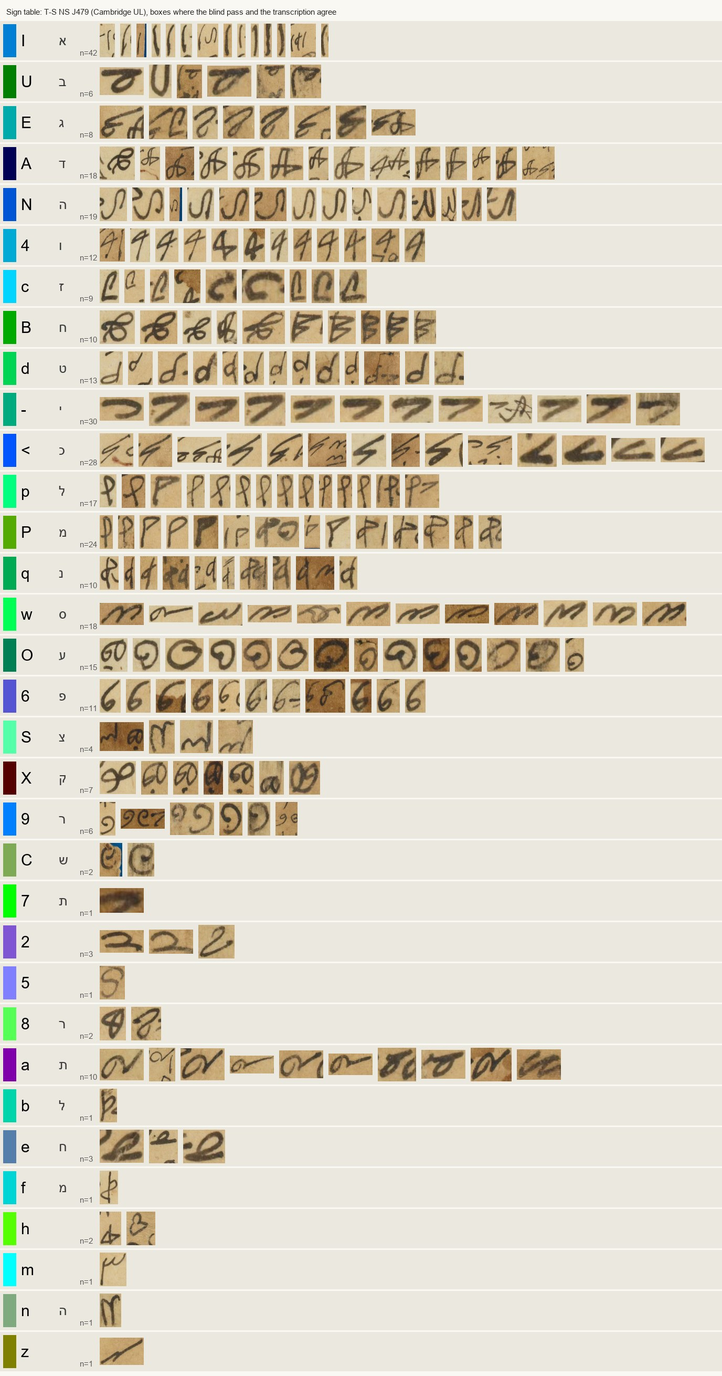
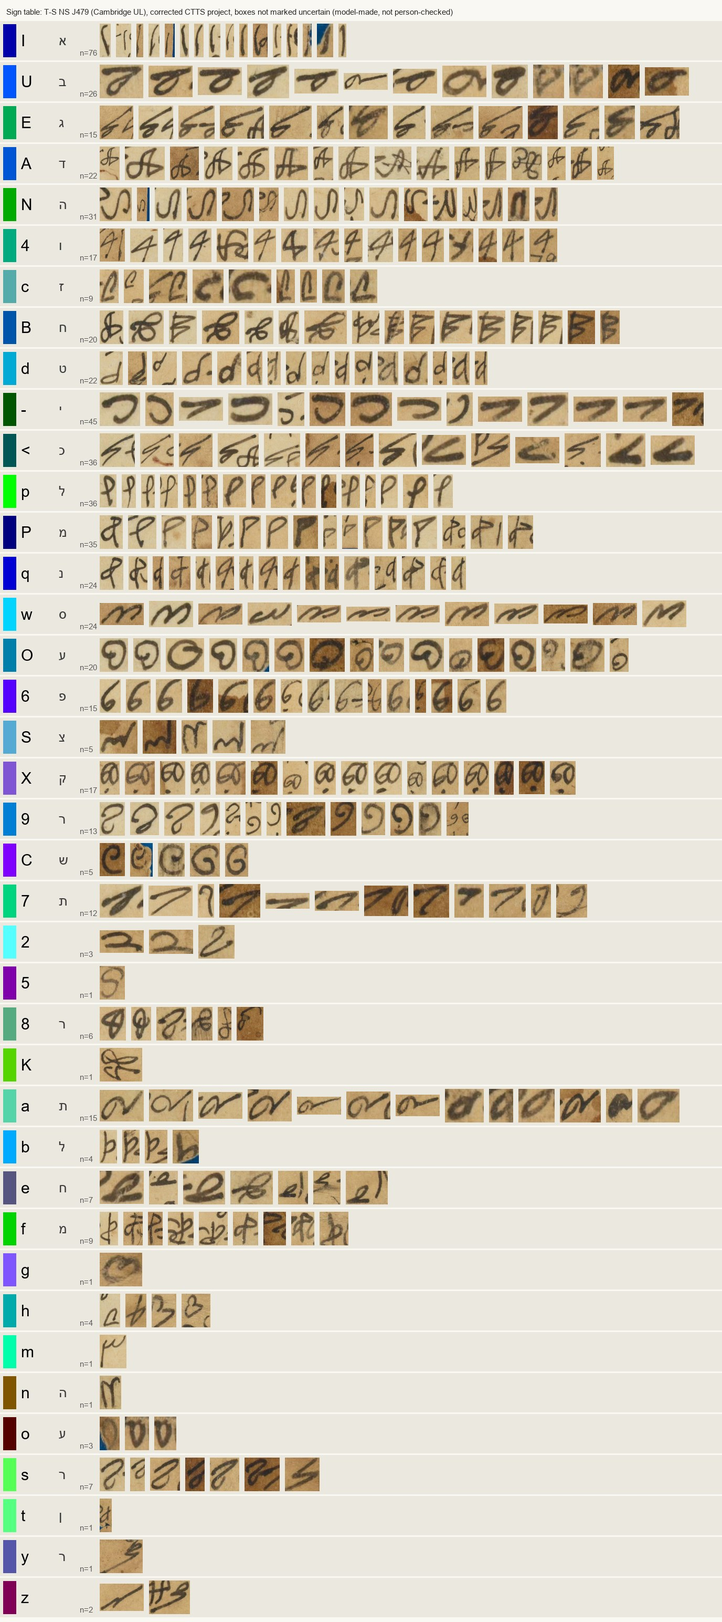
Site: J479 CTTS project corrected by editing the project files; sign table redrawn
Every disagreement and missing sign of the blind first pass was decided on enlarged crops by two reviewers and written
into the CTTS project files (697 boxes, 84 types, 103 marked uncertain; 167 type changes, 81 deletions, 3 merges,
15 splits, 129 additions). Computer use of CTTS was unavailable, so the files were edited directly, as in the it1583
pilot; the project has not been opened in CTTS and no person has checked it. The page's table now shows the 592
certain boxes. NOTES step 16, profile step and the research/ctts README row updated; review and apply scripts added.

diff --git a/docs/tsnsj479.html b/docs/tsnsj479.html
@@ -88,8 +88,8 @@
 <p>As photographed, the lines run left to right; the page is upside down in the photographs, and turned round they read right to left in the ordinary way (Elbaum's copy shows them so). The alphabet rows, read in Hebrew order, give the value of every sign. Sign frequencies agree: the commonest are the signs for א, י, ל and מ, as in Judaeo-Arabic, and the commonest short words come out as פי ("in"), יא ("O") and מן ("from").</p>
 <p>The scribe was not fully consistent. Across his alphabets one sign serves for ת, ש and ב, another for ת and צ, and צ has five forms; ר is written three ways in the alphabets and a fourth in the text. In the text of side 1 the 7-shaped sign stands for ב. A dot under ט marks ض or ظ, under ד marks ذ, and under כ marks خ: the Arabic sounds the Hebrew alphabet lacks. Two rows of side 1 were written with the page turned: S1L03, a fragment of the alphabet from ב to ל, and the text line S1L07. Three items at the top of side 2 are upside down as well.</p>
 
-<figure data-credit="Cambridge University Library, T-S NS J479, both sides, via Cambridge Digital Library IIIF; table drawn here in the style of the CTTS symbol-type view"><img src="tsnsj479_ctts_key.jpg" width="1376" height="2620" decoding="async" loading="lazy" alt="Sign table: one coloured row per sign type with the Hebrew letter it carries and cut-outs of that sign from the page, from I (alef) to the variants"><figcaption>The sign table: each type with signs cut from the page, only where a blind first-pass labelling and the transcription agree (336 of 637 boxes). A first pass by models, not yet checked by a person; a few cut-outs hold more than one sign. <span class="credit">Image: Cambridge University Library, T-S NS J479, both sides, via Cambridge Digital Library IIIF; table drawn here in the style of the CTTS symbol-type view.</span></figcaption></figure>
-<p>The same boxes were written out as a CTTS project (CrypTool Transcriber and Solver), with the uncertain ones marked, for a person to correct in the program; until that is done the table is a first pass, not a gold standard. About half the boxes still disagree with the transcription or have no counterpart (step 16 of the notes).</p>
+<figure data-credit="Cambridge University Library, T-S NS J479, both sides, via Cambridge Digital Library IIIF; table drawn here in the style of the CTTS symbol-type view"><img src="tsnsj479_ctts_key.jpg" width="1376" height="3088" decoding="async" loading="lazy" alt="Sign table: one coloured row per sign type with the Hebrew letter it carries and cut-outs of that sign from the page, from I (alef) to the variants"><figcaption>The sign table: each type with signs cut from the page, from the corrected CTTS project (592 of its 697 boxes; the 103 marked uncertain are left out). Made by models, not yet checked by a person; a few cut-outs hold more than one sign. <span class="credit">Image: Cambridge University Library, T-S NS J479, both sides, via Cambridge Digital Library IIIF; table drawn here in the style of the CTTS symbol-type view.</span></figcaption></figure>
+<p>The boxes were written out as a CTTS project (CrypTool Transcriber and Solver): a blind first pass by two models, compared with the transcription, then every disagreement and missing sign decided on enlarged crops (step 16 of the notes). The project files are corrected but have not been opened in CTTS, and no person has checked the table, so it is not yet a gold standard.</p>
 
 <h2 id="burda"><span class="num">03</span> The Burda verses</h2>
 <figure class="creveal" data-src="reveal/tsnsj479.json"></figure>
@@ -694,13 +694,13 @@ except רחמה, S2L13, S2U01, a few single words, and the words lost in holes.<
 <p class="muted">Transcriptions, readings, the key, the dating notes and the scripts are in <a href="https://github.com/dbourdeau/cyphersolver/tree/main/targets/tsnsj479">targets/tsnsj479</a>.</p>
 <!-- cite:start -->
 <details class="cite" id="cite"><summary>Cite this page</summary>
-<p class="citetext">Daniel Bourdeau, “Isḥāq the Jew’s cipher sheet, Cairo Geniza (T-S NS J479)”, Cyphersolver, posted 20 November 2026, repository commit e1eef0219e, https://cyphersolver.com/tsnsj479.html.</p>
-<p class="citebtns"><button type="button" data-copy="Daniel Bourdeau, “Isḥāq the Jew’s cipher sheet, Cairo Geniza (T-S NS J479)”, Cyphersolver, posted 20 November 2026, repository commit e1eef0219e, https://cyphersolver.com/tsnsj479.html.">Copy citation</button><button type="button" data-copy="@misc{cyphersolver-tsnsj479,
+<p class="citetext">Daniel Bourdeau, “Isḥāq the Jew’s cipher sheet, Cairo Geniza (T-S NS J479)”, Cyphersolver, posted 20 November 2026, repository commit 8e031a7dd3, https://cyphersolver.com/tsnsj479.html.</p>
+<p class="citebtns"><button type="button" data-copy="Daniel Bourdeau, “Isḥāq the Jew’s cipher sheet, Cairo Geniza (T-S NS J479)”, Cyphersolver, posted 20 November 2026, repository commit 8e031a7dd3, https://cyphersolver.com/tsnsj479.html.">Copy citation</button><button type="button" data-copy="@misc{cyphersolver-tsnsj479,
   author = {Daniel Bourdeau},
   title = {Isḥāq the Jew’s cipher sheet, Cairo Geniza (T-S NS J479)},
   year = {2026},
   howpublished = {Cyphersolver},
-  note = {posted 20 November 2026, repository commit e1eef0219e},
+  note = {posted 20 November 2026, repository commit 8e031a7dd3},
   url = {https://cyphersolver.com/tsnsj479.html}
 }">Copy BibTeX</button></p>
 </details>

diff --git a/research/ctts/apply_decisions_j479.py b/research/ctts/apply_decisions_j479.py
@@ -1,0 +1,71 @@
+"""Apply the reviewers' decisions (decisions_s1.json, decisions_s2.json) to the T-S NS J479 CTTS project and write the
+files CTTS restores a project from.
+
+Per band, in this order: delete, merge, split, set, add. Boxes with an entry in "uncertain" get their type marked with a
+leading `?` so that they sit together in CTTS's symbol-type view. Output: boxes_corrected.json, labels_corrected.json,
+corrections.tsv (every operation, one line each) and, through to_ctts.py, ctts/positions + colors.txt.
+
+  python apply_decisions_j479.py
+"""
+import json, subprocess, sys
+from pathlib import Path
+
+P = Path(__file__).parent / 'projects' / 'tsnsj479'
+boxes = json.load(open(P / 'boxes_final.json', encoding='utf-8'))
+labels = json.load(open(P / 'labels_final.json', encoding='utf-8'))
+dec = {}
+for f in ('decisions_s1.json', 'decisions_s2.json'):
+    dec.update(json.load(open(P / f, encoding='utf-8')))
+log = []
+out_b, out_l = {}, {}
+tot = dict(set=0, delete=0, merge=0, split=0, add=0, uncertain=0, bands_without_decisions=0)
+for img, bx in boxes.items():
+    d = dec.get(img)
+    rows = {b['n']: dict(x=b['x'], y=b['y'], w=b['w'], h=b['h'], label=labels[img][str(b['n'])], tag='') for b in bx}
+    if d is None:
+        tot['bands_without_decisions'] += 1; d = {}
+    for n in d.get('delete', []):
+        if rows.pop(int(n), None) is not None:
+            tot['delete'] += 1; log.append((img, 'delete', n, ''))
+    nxt = max(rows, default=0) + 1000
+    for m in d.get('merge', []):
+        ns = [int(n) for n in m['ns'] if int(n) in rows]
+        if len(ns) < 2:
+            continue
+        x0 = min(rows[n]['x'] for n in ns); y0 = min(rows[n]['y'] for n in ns)
+        x1 = max(rows[n]['x'] + rows[n]['w'] for n in ns); y1 = max(rows[n]['y'] + rows[n]['h'] for n in ns)
+        for n in ns: rows.pop(n)
+        nxt += 1; rows[nxt] = dict(x=x0, y=y0, w=x1 - x0, h=y1 - y0, label=m['label'], tag='')
+        tot['merge'] += 1; log.append((img, 'merge', ns, m['label']))
+    for s in d.get('split', []):
+        n = int(s['n'])
+        if n not in rows: continue
+        b = rows.pop(n); k = len(s['labels'])
+        for j, lab in enumerate(s['labels']):
+            nxt += 1; rows[nxt] = dict(x=b['x'] + b['w'] * j / k, y=b['y'], w=b['w'] / k, h=b['h'], label=lab, tag='')
+        tot['split'] += 1; log.append((img, 'split', n, ' '.join(s['labels'])))
+    for n, lab in d.get('set', {}).items():
+        n = int(n)
+        if n in rows:
+            log.append((img, 'set', n, f"{rows[n]['label']} -> {lab}")); rows[n]['label'] = lab; tot['set'] += 1
+    for a in d.get('add', []):
+        nxt += 1; rows[nxt] = dict(x=a['x'], y=a['y'], w=a['w'], h=a['h'], label=a['label'], tag='added')
+        tot['add'] += 1; log.append((img, 'add', f"{a['x']},{a['y']}", a['label']))
+    unc = d.get('uncertain', {})
+    for key in unc:
+        if str(key).isdigit() and int(key) in rows:
+            lab = rows[int(key)]['label']
+            if not lab.startswith('?'): rows[int(key)]['label'] = '?' + lab
+            tot['uncertain'] += 1; log.append((img, 'uncertain', key, unc[key]))
+    for r in rows.values():                      # a box still carrying the alignment's '?' (unmatched) stays marked
+        pass
+    order = sorted(rows.values(), key=lambda r: r['x'])
+    out_b[img] = [dict(line=1, x=round(r['x']), y=round(r['y']), w=max(round(r['w']), 4), h=round(r['h']), n=i + 1) for i, r in enumerate(order)]
+    out_l[img] = {str(i + 1): r['label'] for i, r in enumerate(order)}
+json.dump(out_b, open(P / 'boxes_corrected.json', 'w', encoding='utf-8'), indent=1)
+json.dump(out_l, open(P / 'labels_corrected.json', 'w', encoding='utf-8'), indent=1, ensure_ascii=False)
+with open(P / 'corrections.tsv', 'w', encoding='utf-8') as fh:
+    fh.write('band\top\twhere\twhat\n')
+    for r in log: fh.write('\t'.join(map(str, r)) + '\n')
+print(tot)
+subprocess.run([sys.executable, str(Path(__file__).parent / 'to_ctts.py'), str(P), str(P / 'labels_corrected.json'), '--boxes', 'boxes_corrected.json'], check=True)

diff --git a/research/ctts/prep_review_j479.py b/research/ctts/prep_review_j479.py
@@ -1,0 +1,48 @@
+"""Review sheets for correcting the T-S NS J479 CTTS project by hand (the files that CTTS restores a project from).
+
+For each band: overlay_final/<band>.png (the band 2x enlarged, boxes from boxes_final.json numbered, a pixel ruler in
+band pixels every 50 px, box colour = status: green agree, orange disagree, red unmatched, blue split) and one line in
+review.json with the boxes (n, x, y, w, h, label, status) and the transcription tokens in box order. Pixel positions
+in the sheets are band pixels (the 2x enlargement is divided out in the ruler).
+"""
+import json, re
+from pathlib import Path
+from PIL import Image, ImageDraw, ImageFont
+
+P = Path(__file__).parent / 'projects' / 'tsnsj479'
+TR = Path(__file__).resolve().parents[2] / 'targets' / 'tsnsj479'
+boxes = json.load(open(P / 'boxes_final.json', encoding='utf-8'))
+labels = json.load(open(P / 'labels_final.json', encoding='utf-8'))
+status = json.load(open(P / 'status_final.json'))
+orders = json.load(open(P / 'orders.json'))
+T = {}
+for side in (1, 2):
+    for l in open(TR / f'tr_side{side}.md', encoding='utf-8'):
+        m = re.match(r'(S\d[LVU]\d\d):\s*(.*)', l)
+        if m:
+            T[m.group(1)] = [t for t in m.group(2).split() if t != '|']
+COL = {'agree': (0, 150, 0), 'disagree': (230, 130, 0), 'unmatched': (220, 0, 0), 'split': (0, 90, 220)}
+try:
+    f = ImageFont.truetype('arial.ttf', 20); fs = ImageFont.truetype('arial.ttf', 14)
+except OSError:
+    f = fs = ImageFont.load_default()
+(P / 'overlay_final').mkdir(exist_ok=True)
+review = {}
+for img, bx in boxes.items():
+    r = img[:-4]; im = Image.open(P / 'images' / img).convert('RGB')
+    S = 2; im2 = im.resize((im.width * S, im.height * S), Image.LANCZOS)
+    pad = 40; canvas = Image.new('RGB', (im2.width, im2.height + pad), 'white'); canvas.paste(im2, (0, pad))
+    d = ImageDraw.Draw(canvas)
+    for x in range(0, im.width, 50):
+        d.line((x * S, 0, x * S, pad - 4), fill=(0, 0, 0)); d.text((x * S + 2, 2), str(x), fill=(0, 0, 0), font=fs)
+    for k, b in enumerate(bx):
+        c = COL[status[img][k]]
+        d.rectangle((b['x'] * S, b['y'] * S + pad, (b['x'] + b['w']) * S, (b['y'] + b['h']) * S + pad), outline=c, width=2)
+        d.text((b['x'] * S + 2, b['y'] * S + pad - 20 if b['y'] * S > 20 else b['y'] * S + pad + b['h'] * S), str(b['n']), fill=c, font=f)
+    canvas.save(P / 'overlay_final' / img)
+    toks = T.get(r, [])
+    toks = toks[::-1] if orders.get(r) == 'rev' else toks
+    review[img] = dict(band=r, size=list(im.size), tokens_in_box_order=toks,
+                       boxes=[dict(n=b['n'], x=b['x'], y=b['y'], w=b['w'], h=b['h'], label=labels[img][str(b['n'])], status=status[img][k]) for k, b in enumerate(bx)])
+json.dump(review, open(P / 'review.json', 'w', encoding='utf-8'), indent=1, ensure_ascii=False)
+print(len(review), 'sheets')

diff --git a/research/ctts/key_table_j479.py b/research/ctts/key_table_j479.py
@@ -16,15 +16,20 @@ ORDER = 'I U E A N 4 c B d - < p P q w O 6 S X 9 C 7'.split()
 HEB = dict(zip(ORDER, 'אבגדהוזחטיכלמנסעפצקרשת'))
 HEB.update({'a': 'ת', 's': 'ר', '8': 'ר', 'e': 'ח', 'f': 'מ', 'b': 'ל', 't': 'ן', 'y': 'ר', 'n': 'ה', 'o': 'ע'})
 colors = [l.split(';')[0] for l in open(P / 'ctts' / 'colors.txt', encoding='utf-8') if l.strip()]
-boxes = json.load(open(P / 'boxes_final.json', encoding='utf-8'))
-labels = json.load(open(P / 'labels_final.json', encoding='utf-8'))
-status = json.load(open(P / 'status_final.json'))
+CORR = '--corrected' in sys.argv
+boxes = json.load(open(P / ('boxes_corrected.json' if CORR else 'boxes_final.json'), encoding='utf-8'))
+labels = json.load(open(P / ('labels_corrected.json' if CORR else 'labels_final.json'), encoding='utf-8'))
+status = None if CORR else json.load(open(P / 'status_final.json'))
 byt = {}
 for img, bx in boxes.items():
     for k, b in enumerate(bx):
-        if status[img][k] != 'agree':
+        lab = labels[img][str(b['n'])]
+        if CORR:
+            if lab[0] in '?_#':
+                continue
+        elif status[img][k] != 'agree':
             continue
-        byt.setdefault(labels[img][str(b['n'])].rstrip('.?'), []).append((img, b))
+        byt.setdefault(lab.rstrip('.?'), []).append((img, b))
 types = [t for t in ORDER if t in byt] + sorted(t for t in byt if t not in ORDER)
 try:
     f = ImageFont.truetype('arial.ttf', 30); fh = ImageFont.truetype('arial.ttf', 26); fs = ImageFont.truetype('arial.ttf', 15)
@@ -32,7 +37,7 @@ except OSError:
     f = fh = fs = ImageFont.load_default()
 H = 78; W = 1376; LW = 190
 sheet = Image.new('RGB', (W, H * len(types) + 56), (250, 248, 242)); d = ImageDraw.Draw(sheet)
-d.text((12, 14), 'Sign table: T-S NS J479 (Cambridge UL), boxes where the blind pass and the transcription agree', fill=(40, 40, 40), font=fs)
+d.text((12, 14), 'Sign table: T-S NS J479 (Cambridge UL), corrected CTTS project, boxes not marked uncertain (model-made, not person-checked)' if CORR else 'Sign table: T-S NS J479 (Cambridge UL), boxes where the blind pass and the transcription agree', fill=(40, 40, 40), font=fs)
 names = [l.split(';')[1] for l in open(P / 'ctts' / 'colors.txt', encoding='utf-8') if l.strip()]
 y = 40; cache = {}
 for t in types:

diff --git a/research/ctts/README.md b/research/ctts/README.md
@@ -51,4 +51,4 @@ F11 or Tab: symbol-type views (F12 grid). F1/F2: next/previous image. F9: line a
 | `bordeaux1653` | Bordeaux to Brienne, 30 May 1653, BL Add MS 4200 f. 88 (DECODE R8390), page 1 | 5 bands, 238 candidate boxes, Fable 5.2 first pass (222 signs, 94 types; 13 split, 40 part, 16 junk, 8 missed). Corrected and saved in CTTS on 20 Nov 2026 (14:21–15:04): all splits and parts fixed, junk removed, the 8 missed signs added (15, 28¨, u, 54', 64', 56', ll, plus 39' split out of "ll39"), 99' moved out of 99¨. Then compared with the target's image-checked transcription (`targets/bordeaux/ct2.txt`, page 1 = 223 tokens; 213 agreed) and each difference re-checked on the enlarged band image. Fixed in CTTS at 15:10–15:23: `q o` → `90` (the round sign has the form of the digit 0 in 20¨, not the tailed letter o), `6` → `6¨` and `5` → `5¨` (a dot is visible above each), `33`+`2` → `332` and `44` → `344` (three-digit codes; the 3 of 344 is under a stain), `?φ` merged back into `φ`, and a box `?52'` added for the stained sign at the start of band 3 (on the page only a prime tick and a stroke show; 52' is the reading of the duplicate copy, R8393). **Now 224 signs, 83 types; 219 of 223 tokens agree with `ct2`.** Left as is, where the image supports CTTS: `96‾` (ct2 `96=`; a single bar), `63` (ct2 `63'`; no prime, the stroke is the δ's curl), `3` + `96‾` (ct2 `396‾`; the bar covers only 96; open). Time: about 5 min in the browser review app (`review_server.py`, `review_log.jsonl`), 43 min in CTTS, 13 min for the validation fixes. Claude Opus 5.5 made the CTTS corrections and readings by driving the GUI while the user watched. **Human check, 20 Nov 2026: a person went over the final CTTS sign table and found it correct except `?52'` (the sign under the stain, head of band 3), which stays unconfirmed.** Re-checked at 16:15 on enlarged, overlay-free crops and in CTTS, nothing changed: `25'` (band 4; the prime sits before the ll, and 25' = "pa" gives "separes"), `d` (band 5; the mark is the d's own flourish, and d = "u" gives "aussi"), and the lone `4` (band 4: a plain 4 whose crossbar stops at the stem, unlike `4-`; the decoded text wants the s-sign there, so the clerk probably meant `4-`, a decipherment point for the target's open [4]). Primes are assigned to the sign before them (written top right). Backups: `backups/before_ctts_correction_1420/`, `backups/after_ctts_correction_1504/`, `backups/after_validation_1523/`. |
 | `marburg1635` | German cipher report to Hesse-Kassel, HStAM 4 d Nr. 1218 no. 49 (DECODE R4500), cipher lines 1-14; single-digit substitution with letter-like signs and marks; transcription and key both rebuilt here from the ciphertext (`targets/marburg1635/`) | Interlinear gloss over lines 1-4 defeats both line finders, so `segment_lines.py` (line centres given by hand, one straightened band per line): 14 bands, 633 candidate boxes. Blind Fable 5.2 first pass from bands, overlays and a notation sheet only (571 signs in boxes, 15 missed, 40 split, 41 part, 51 clear, 14 junk). Its own flags applied mechanically (`apply_flags.py`, then `to_ctts.py --boxes boxes_applied.json`: 640 boxes, 36 types). Claude Opus 5.5 read every line on enlarged overlay-free strips and 17 doubts on 3x crops (17:17-17:31), then corrected in CTTS by computer use while the user watched (17:32-17:49; ~30 type moves in the F12 grid view, 3 renames, 7 deletions, 1 merge, 2 boxes redrawn). **582 signs in 32 types (plus `_clear` for gloss strokes).** First pass vs final: 17.7% raw, 5.7% with its notes applied. Final vs the target's `cipher_tokens.txt` (compared only afterwards): 3.0% (565/576; marks not counted), 17 differences, all checked on the image. The marks the old transcription dropped carry key values (9 with bow = b/w, 0 with dots/bow = z, triangle with bar = ll, double-crossed long s = ss); no base key value changed; lines 4-7 now build a clause, lines 1-3 still do not (`targets/marburg1635/texts/R4500_ctts_test.md`, report `marburg1635_ctts_report.pdf`). Box geometry: deletions and two redraws only, auto-split boxes left equal-width, so the boxes are not a geometry gold standard. Model-made: no person has checked the sign table yet. Backups: `backups/before_ctts_correction_1717/`, `after_ctts_correction_1745/`, `after_validation_1749/`. |
 | `it1583` | Two Sforza cipher slips of 4 May 1446, BnF italien 1583 f. 68 (DECODE R7898) and f. 70 (R7899 image P1); graphic-sign homophonic cipher whose key Lasry recovered from the ciphertext alone (`targets/it1583/`) | Binarized DECODE scans; lines ~37 px apart and touching, so `segment_dense.py` (2x upscale, line centres from the ink profile, touching strokes cut at the thinnest column): 7 bands, 1,129 candidate boxes. Blind Fable 5.2 first pass, one agent per letter, shown only bands, overlays and a shape notation (`NOTATION.md`): about 418 + 398 signs, 57 + 49 codes, 114 doubts, 193 part and 13 split boxes. Correction by Claude Opus 5.5, 20 Nov 2026 (about 17 min): part and clear runs merged, the two agents' codes for one shape unified, all 125 flagged signs checked on enlarged crops with no overlay (`decisions.tsv`), 74 box operations (`geomfix.log`). Computer use of the CTTS window came back denied, so at the user's choice the fixes were written to `positions/` and `colors.txt` and CTTS restored the project (834 boxes, 83 types). Then (5c, about 14 min) compared box by box with Lasry's CTTS project (fitted to the same images, scale 1.00, 2 px median offset) and fixed where image and decoded text side with him (`fix5c.log`): the dot groups `::` and `.:.` are cipher signs (z and a), 31 of them, dropped as separators because the notation sheet said so; b+cross = per; C with ÷ and 9 with barred m are compound signs; 18 single signs. **Final: 425 + 400 signs, 89 types.** Sign error rates vs final (f. 68 / f. 70): first pass raw 24.2% / 24.8%; with its own notes 12.7% / 9.2% (7.5% / 7.7% without the dot groups); CTTS pass before the comparison 10.8% / 6.8% (5.5% / 5.1%); final vs Lasry 1.9% / 5.2%; final vs the target's September draft (`f68_signs.txt`, `f70_signs.txt`) 14.1% / 14.6%, Lasry vs that draft 14.4% / 15.1%. **The key does not change**: of 27 boxes where the new class would give another letter, 21 go to Lasry by image and sense, 3 are naming only, 3 stay open. One reading gain: a caret-inserted o-sign on f. 68 line 10 that Lasry's project lacks ("octo o dece", eight or ten). Proposed for the open classes: #40 + (11) are one flourish. Corrections and readings are model-made; no person has checked the sign table yet. Scores: `score.py`, `scores.json`; report `it1583_ctts_report.pdf`. Backups: `backups/before_ctts_correction_1702/`, `before_ctts_gui_1709/`, `after_correction_1719/`, `after_5c_1729/`, `final_1732/`. |
-| `tsnsj479` | Cairo Geniza practice sheet, Cambridge T-S NS J479, invented sign alphabet for Judaeo-Arabic (`targets/tsnsj479/`) | 46 bands (one per cipher row; margin columns and upside-down lines turned upright), 682 candidate boxes from `segment_glyphs.py` (connected components, marks attached; `segment.py` merges whole words here). Blind first pass by two agents (side 1: 350 boxes, 23 split, 99 doubts; side 2: 332 boxes, 56 split, 15 part, 137 doubts, labels rough). Aligned band by band with the target's transcription (`align_j479.py`): 336 of 637 boxes agree, 91 disagree, 162 boxes and 204 signs unmatched, 14 boxes cut. **Project written (97 types, uncertain boxes `?`); not corrected in CTTS and not person-checked: the first pass is not yet a gold standard.** `key_table_j479.py` draws the page's sign table from the agreed boxes only. 20 Nov 2026, Claude Sonnet 5.5; CTTS was not driven. |
+| `tsnsj479` | Cairo Geniza practice sheet, Cambridge T-S NS J479, invented sign alphabet for Judaeo-Arabic (`targets/tsnsj479/`) | 46 bands (one per cipher row; margin columns and upside-down lines turned upright), 682 candidate boxes from `segment_glyphs.py` (connected components, marks attached; `segment.py` merges whole words here). Blind first pass by two agents, aligned band by band with the target's transcription (`align_j479.py`): 336 of 637 boxes agreed, 91 disagreed, 162 boxes and 204 signs unmatched. Correction (`prep_review_j479.py` sheets, two reviewers on enlarged overlay-free crops with the transcription in view, `apply_decisions_j479.py`): 167 type changes, 81 deletions, 3 merges, 15 splits, 129 additions, 103 marked uncertain; **697 boxes, 84 types**; 585 of the transcription's 679 signs line up. Computer use of CTTS was not available, so the corrections were written to `positions/` and `colors.txt` (as in it1583); **not opened in CTTS, not person-checked**. `key_table_j479.py --corrected` draws the page's table (592 certain boxes). 20 Nov 2026, Claude Sonnet 5.5. |

diff --git a/targets/tsnsj479/NOTES.md b/targets/tsnsj479/NOTES.md
@@ -117,18 +117,24 @@ paper folio, both sides covered with jottings in many directions. Lead from the 
 15. 20 Nov 2026. The user asked for the write-up and a pull request with Brice Dudout as reviewer, publishing before
     Elbaum is contacted (the user's decision; Elbaum credited on the page).
 
-16. 20 Nov 2026. **CTTS sign table (first pass, model-made; for the user's review).** Following the repository's CTTS
-    pipeline (`research/ctts/README.md`): 46 straightened bands (one per cipher row, signs turned upright; the
-    margin columns and upside-down lines included), candidate boxes from a finer segmenter for separate-stroke signs
-    (`research/ctts/segment_glyphs.py`, 682 boxes), and two blind first-pass labelling agents (one per side; overlays
-    and the sign chart only). The blind labels were then aligned with this target's transcription band by band
-    (`research/ctts/align_j479.py`): 336 of 637 boxes agree on the shape, 91 disagree,
-    162 boxes and 204 transcription signs have no counterpart, 14 boxes were cut. The
-    first pass is therefore not yet a gold standard: the remaining boxes need a person in CTTS. The CTTS project files
-    (`positions/`, `colors.txt`: 46 images, 637 boxes, 97 symbol types, uncertain boxes marked `?`) are in the
-    git-ignored `research/ctts/projects/tsnsj479/ctts/`. The page's sign table shows only the 336 agreed boxes
-    (`research/ctts/key_table_j479.py`, drawn here in CTTS's style, not exported from the CTTS window). Not checked
-    by a person; CTTS was not driven.
+16. 20 Nov 2026. **CTTS project, corrected by hand-editing the project files (model-made; for the user's review).**
+    Following the repository's CTTS pipeline (`research/ctts/README.md`): 46 straightened bands (one per cipher row,
+    signs turned upright; margin columns and upside-down lines included), candidate boxes from a finer segmenter for
+    separate-stroke signs (`research/ctts/segment_glyphs.py`, 682 boxes), two blind first-pass labelling agents (one
+    per side; overlays and the sign chart only). 5c: the blind labels were aligned with this target's transcription
+    band by band (`align_j479.py`): 336 of 637 boxes agreed, 91 disagreed, 162 boxes and 204 transcription signs had no
+    counterpart. So the first pass was not a gold standard. Correction (`prep_review_j479.py`, `apply_decisions_j479.py`):
+    two reviewers decided every non-agreeing box and every missing sign on enlarged, overlay-free crops, with the
+    transcription in view (so the corrected project is no longer independent of it): 167 type changes, 81 boxes deleted
+    (stains, fragments of neighbouring lines), 3 merges, 15 splits, 129 boxes added, 103 signs marked uncertain (`?` in
+    the type name). Result: **697 boxes in 84 symbol types over 46 images**; 585 of the transcription's 679 signs line up
+    with the boxes in sequence. About 58 transcription tokens were wrong on the image (S1L03, S1L07, S1L01, S2L04-06, S2L10
+    among them; the alphabet columns S2V01-02 do not correspond to the transcription at all). New labels: `#` (overwritten
+    clusters, S1L12, S1V02) and `K` (one sign at the end of S1V01). Computer use of the CTTS window was not available,
+    so, as in the it1583 pilot, the corrections were written to `positions/` and `colors.txt` (git-ignored project folder
+    `research/ctts/projects/tsnsj479/ctts/`) for CTTS to restore; the project has not been opened or checked in CTTS and no
+    person has checked the sign table. The page's table (`key_table_j479.py --corrected`) shows the 592 boxes not marked
+    uncertain, drawn here in CTTS's style, not exported from the CTTS window.
 
 ## Result
 
